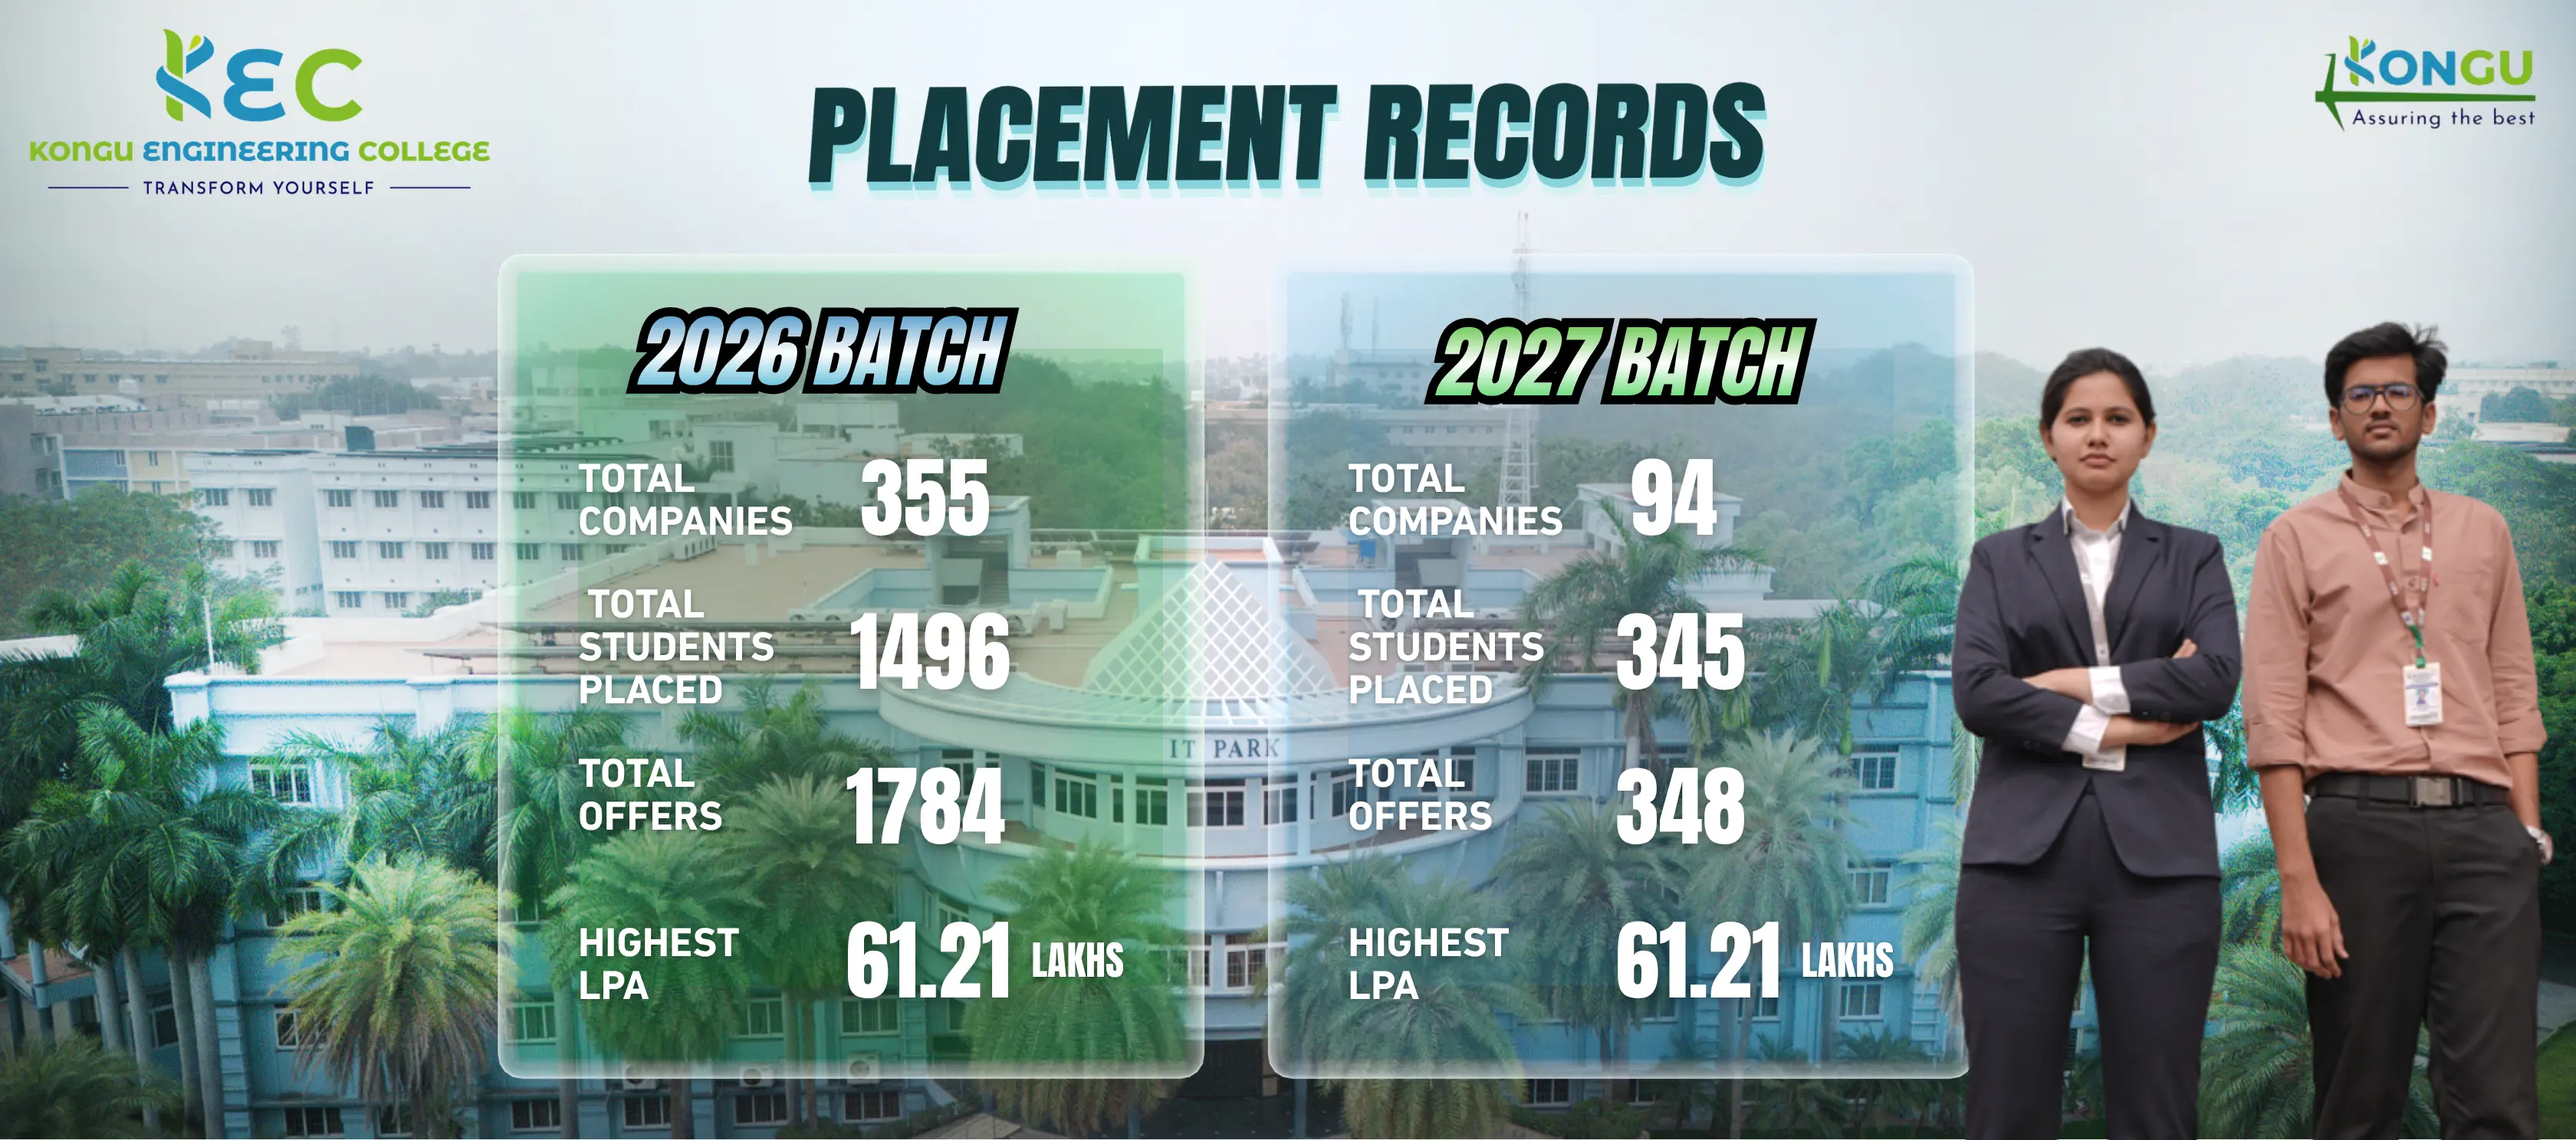
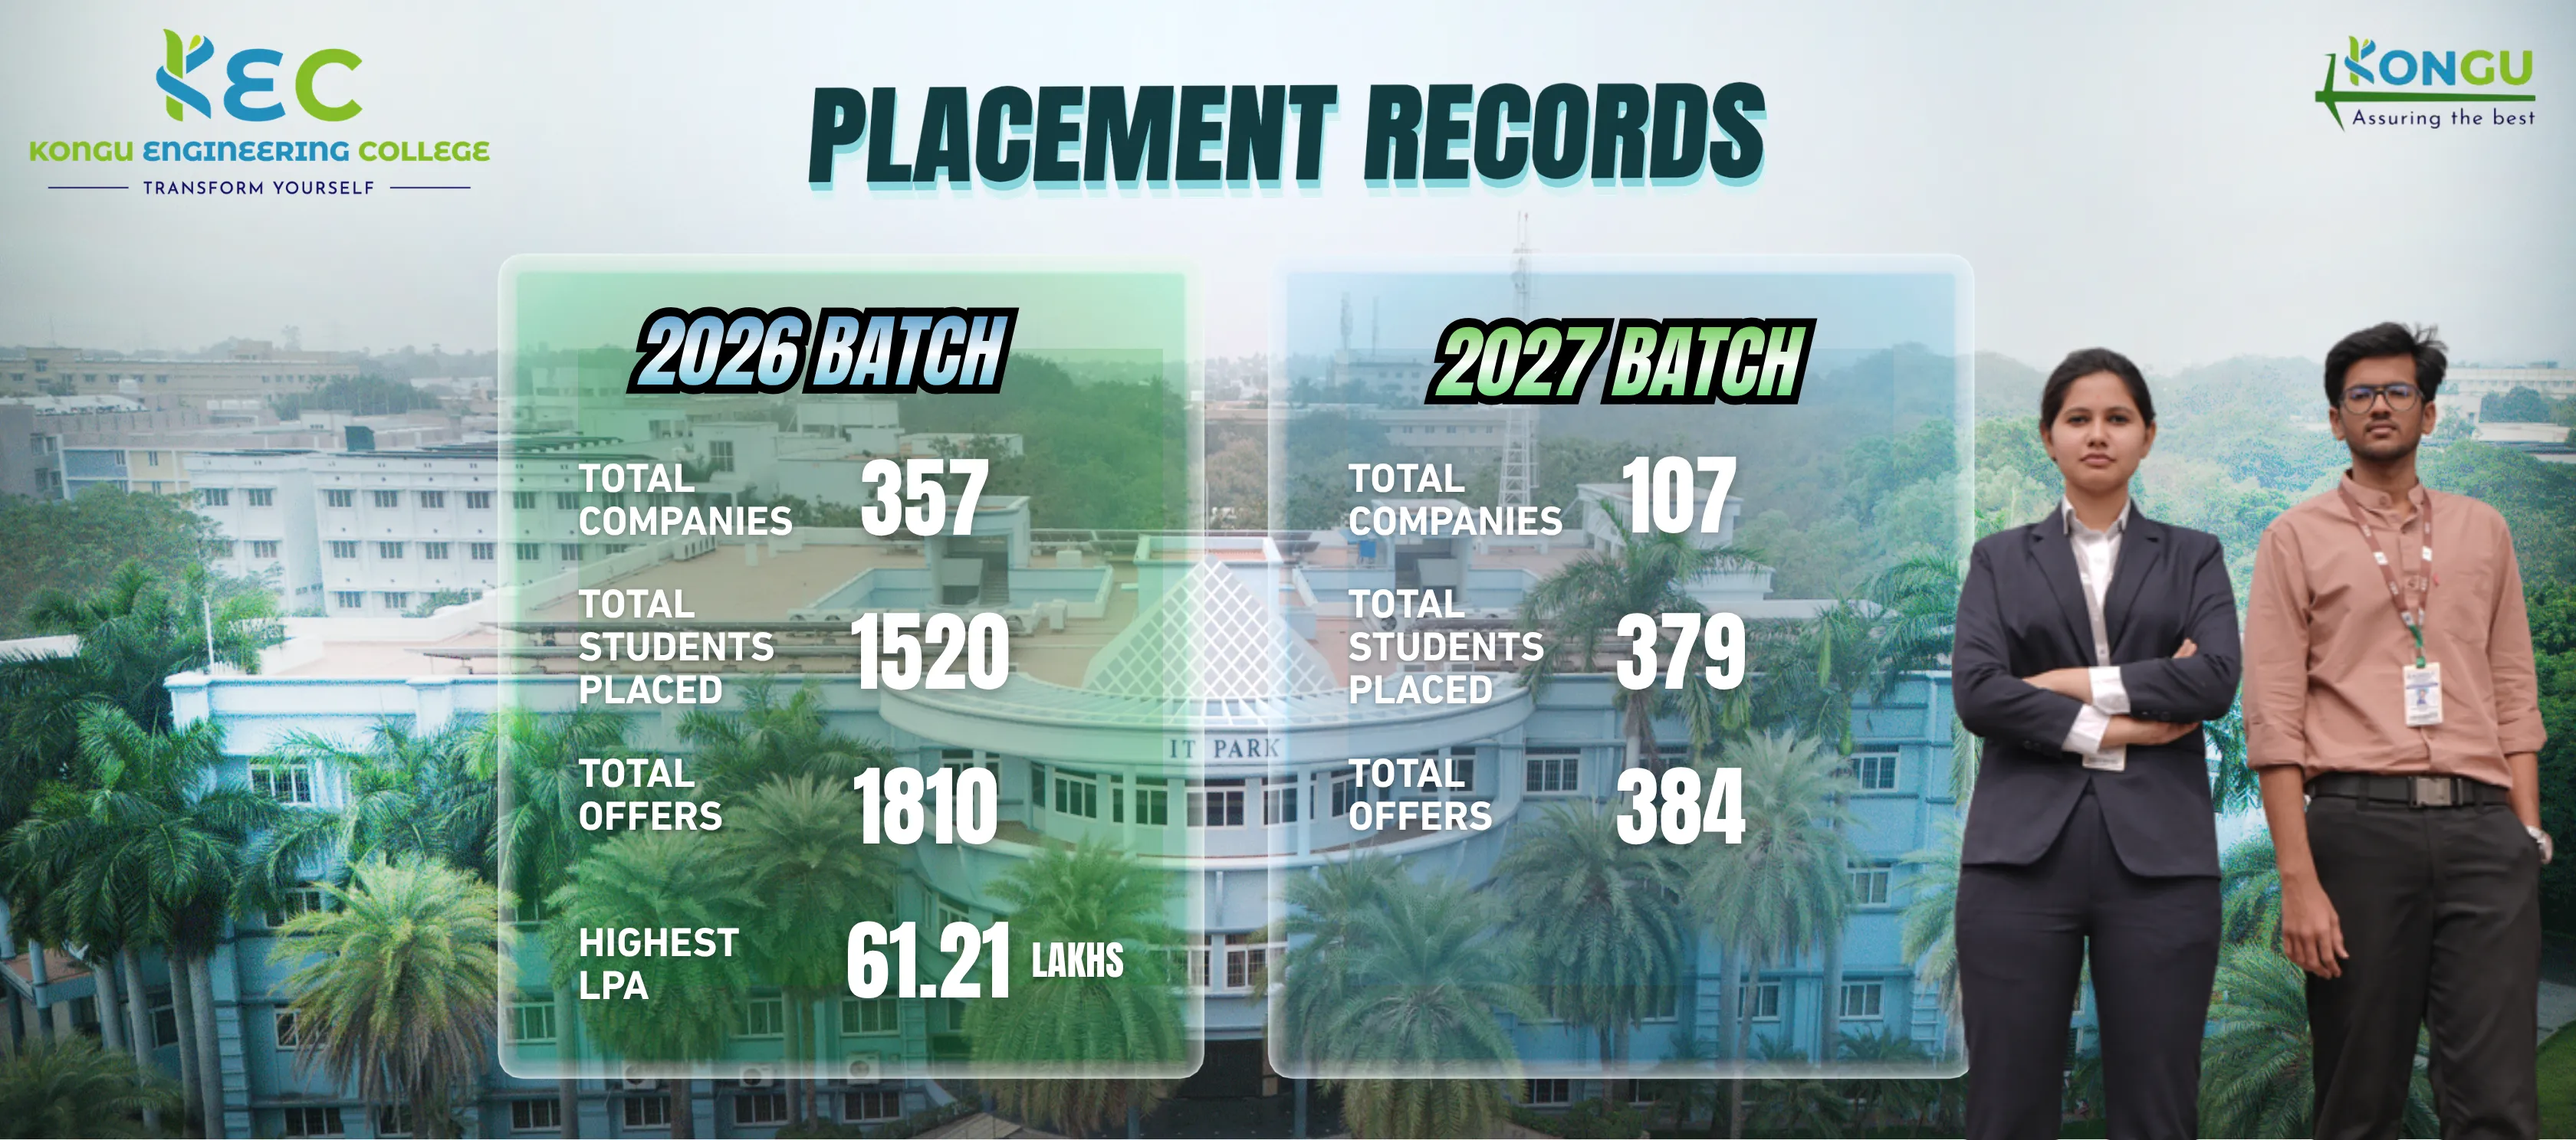
placement updated

diff --git a/src/components/Admission/AdmissionPage.jsx b/src/components/Admission/AdmissionPage.jsx
@@ -73,7 +73,7 @@ const AdmissionPage = () => {
     {
       q: "How are the placements at KEC?",
       // ✅ UPDATED: Shows Current (25-26) and Previous (24-25) Stats
-      a: "Placements are excellent. For the academic year 2025-26, we have already secured 1784+ offers with a highest package of 61.21 LPA. In the academic year 2024-25, we achieved 1693 offers with a highest package of 61.21 LPA.",
+      a: "Placements are excellent. For the academic year 2025-26, we have already secured 1810+ offers with a highest package of 61.21 LPA. In the academic year 2024-25, we achieved 1693 offers with a highest package of 61.21 LPA.",
     },
     {
       q: "Is there transport facility available?",

diff --git a/src/components/ExtraPages/PlacementSection/Placement.jsx b/src/components/ExtraPages/PlacementSection/Placement.jsx
@@ -412,7 +412,7 @@ const Placement = () => {
                 <img src={card1} alt="Companies Visited Icon" />
               </div>
 
-              <div className="Placement-stat-valu">355</div>
+              <div className="Placement-stat-valu">357</div>
             </div>
 
             <div className="ps-stat-card blue center">
@@ -424,7 +424,7 @@ const Placement = () => {
                 <img src={card2} alt="Students Placed Icon" />
               </div>
 
-              <div className="Placement-stat-valu">1496</div>
+              <div className="Placement-stat-valu">1520</div>
             </div>
 
             <div className="ps-stat-card green">
